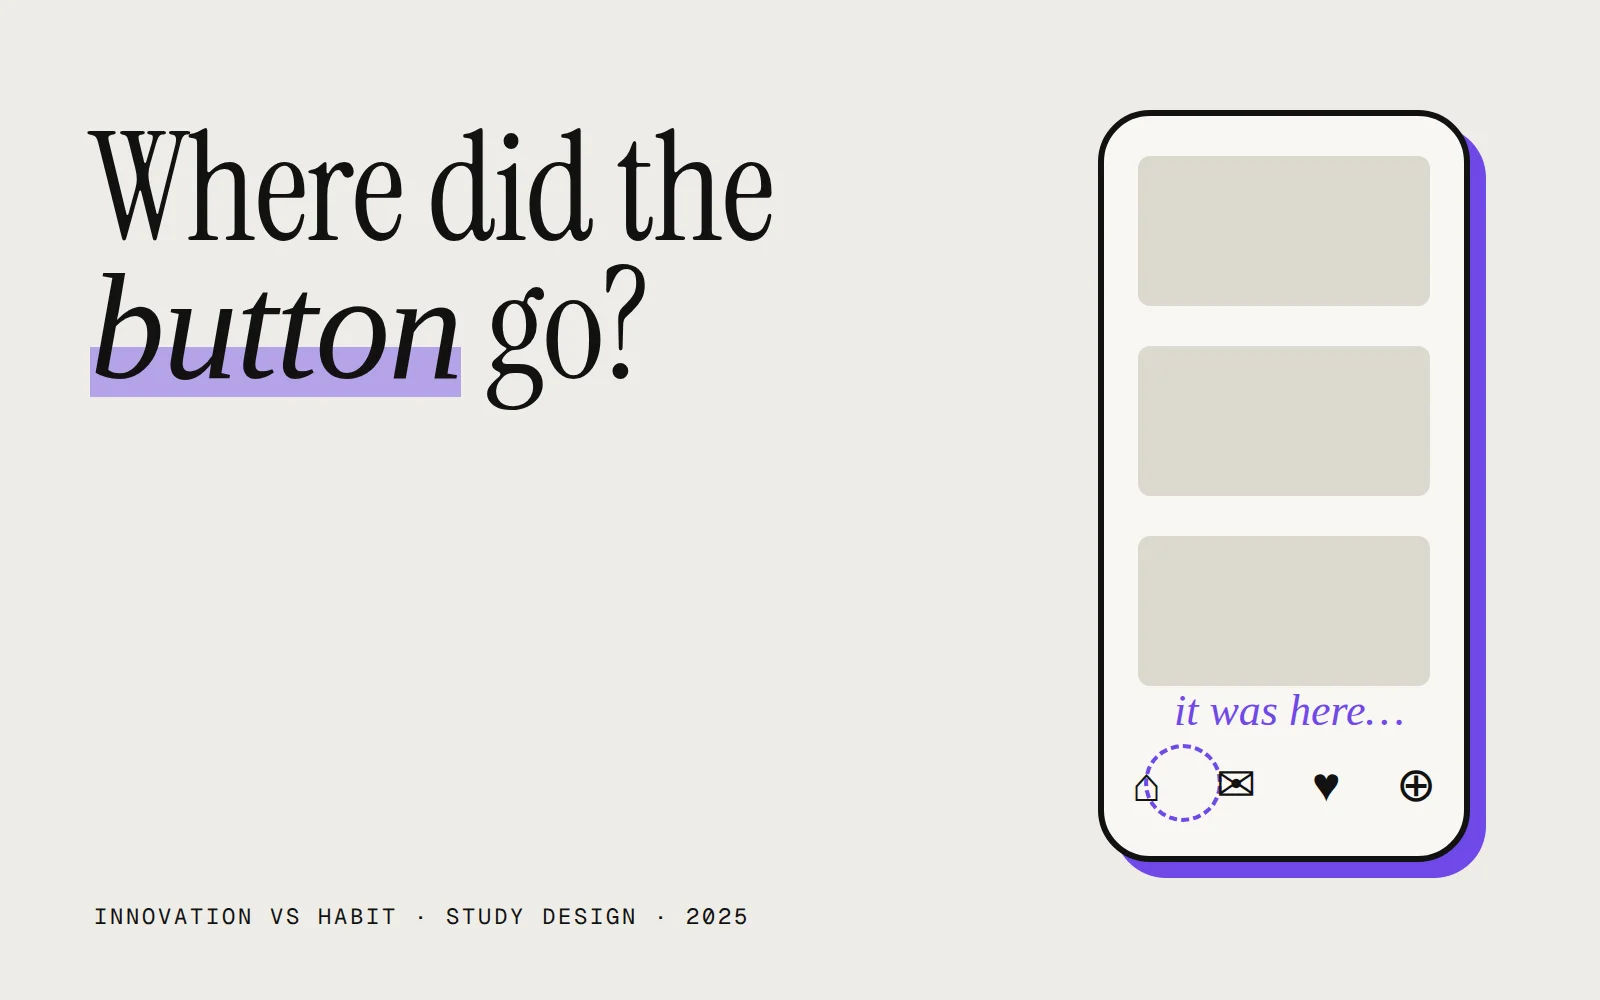
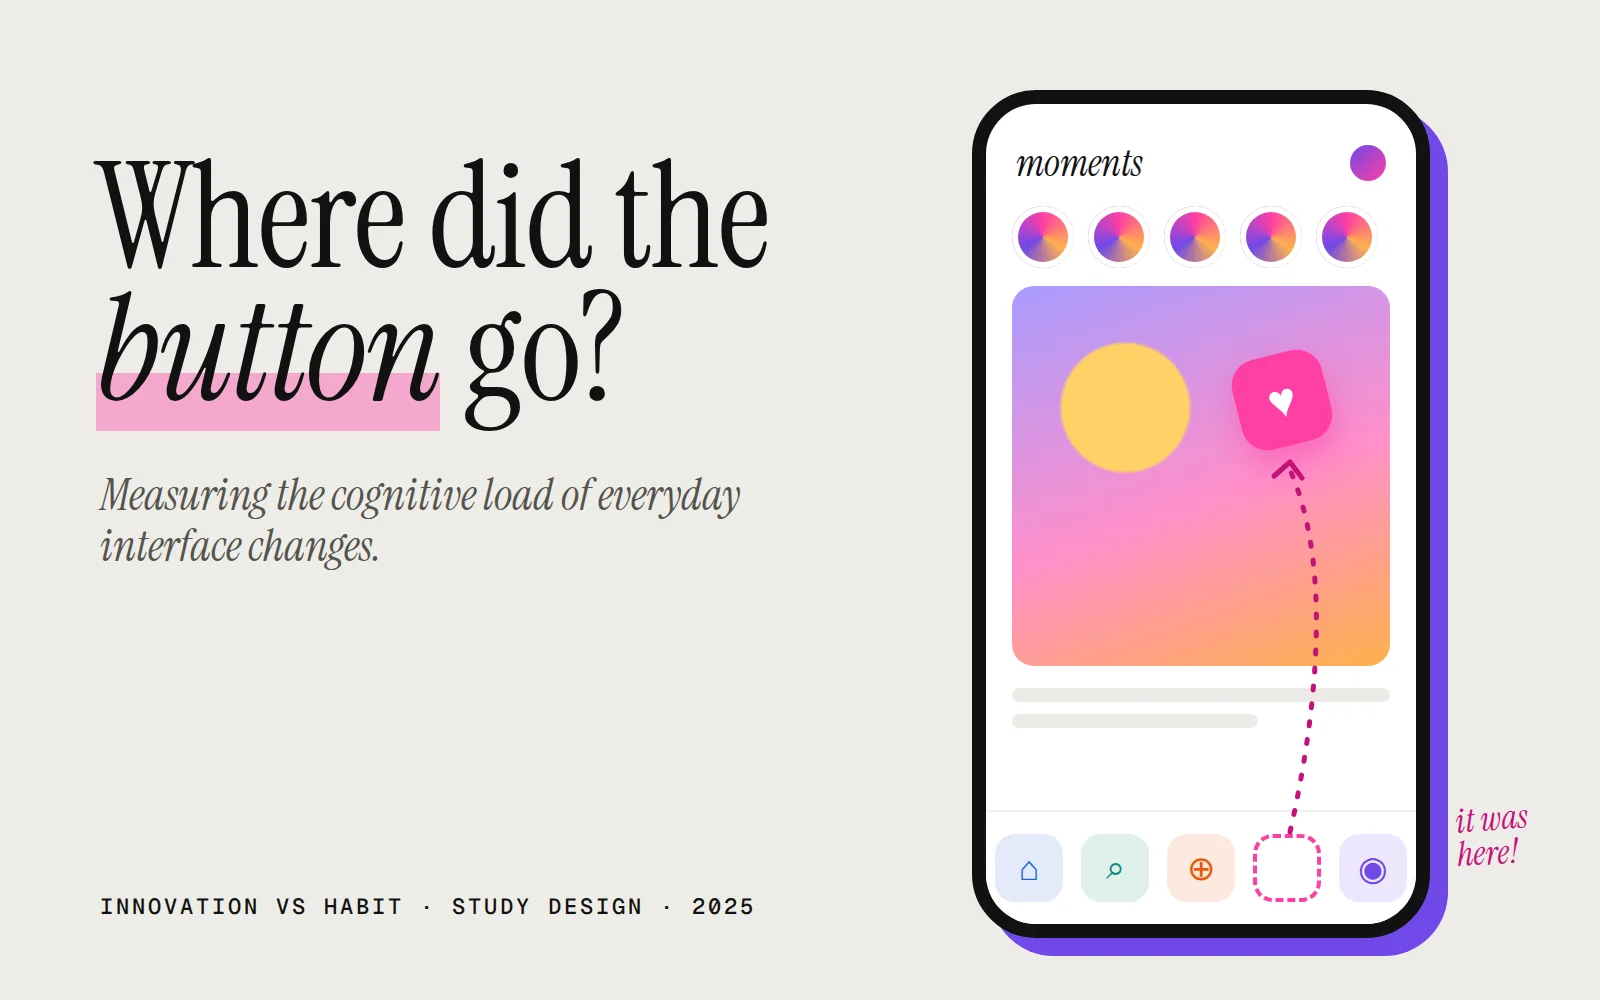
Redraw Innovation vs habit cover to match the colourful app style
Claude-Session: https://claude.ai/code/session_01WcbvhFMLkJFsvgnNpnBruP

diff --git a/work/habit.html b/work/habit.html
@@ -57,7 +57,7 @@
             </div>
           </div>
         </div>
-        <div class="cover fig__frame"><img src="../assets/img/habit-cover.webp" alt="Where did the button go? A phone with a dashed outline where a button used to be" width="1600" height="1000"></div>
+        <div class="cover fig__frame"><img src="../assets/img/habit-cover.webp" alt="Where did the button go? A colourful social app where the heart button has jumped from the tab bar into the middle of the screen" width="1600" height="1000"></div>
       </div>
     </section>
 
